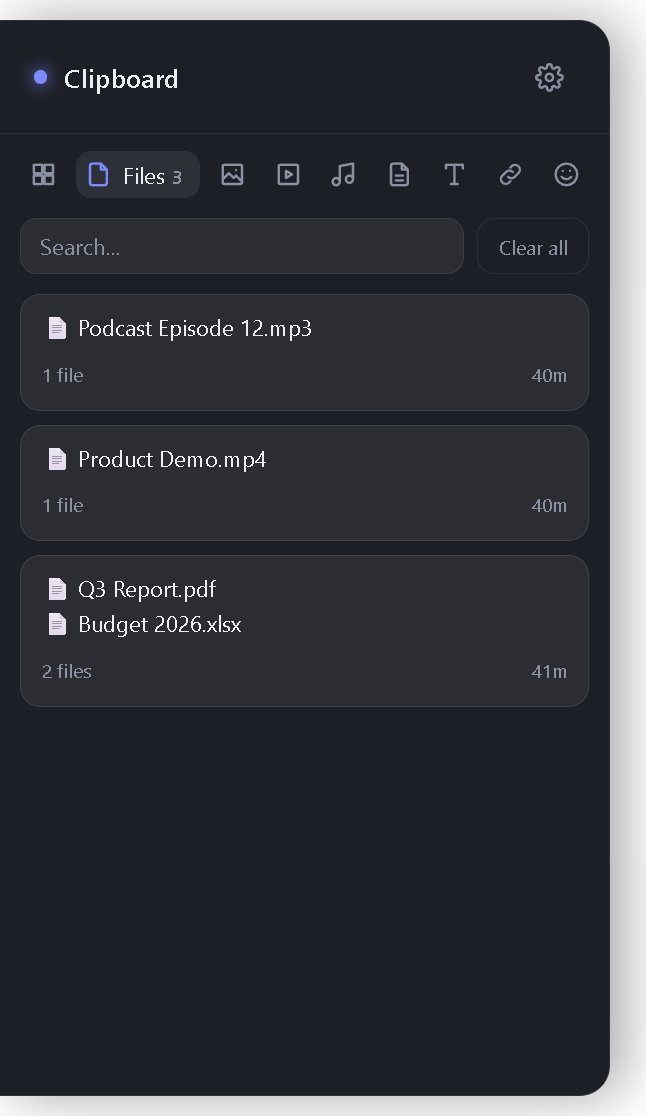
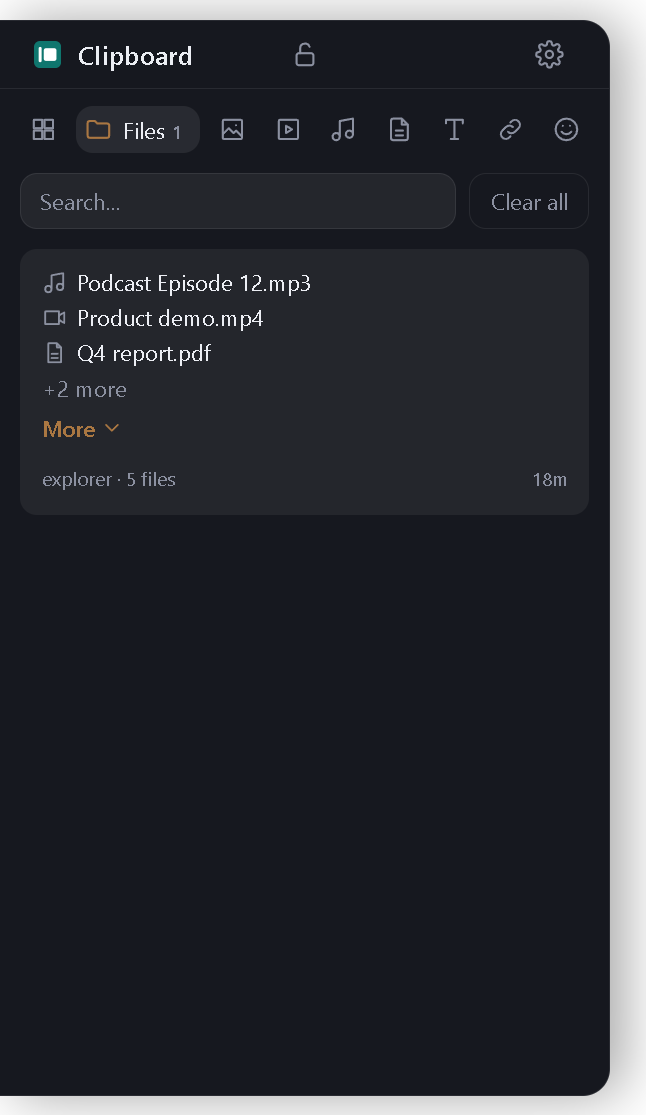
Item 32: README screenshots retaken from the current app, plus Forest in Arabic
Same six files and size (646x1116) from fresh test data, with a seventh (forest.png);
the table is 4 + 3 at width 200.

diff --git a/README.md b/README.md
@@ -107,13 +107,13 @@ Can be turned off from the tray icon, and capturing can be paused on demand.
 
 ## Screenshots
 
-| History | Settings | Light mode |
-|:---:|:---:|:---:|
-| <img src="assets/screenshots/history.png" width="260" alt="History tab"> | <img src="assets/screenshots/settings.png" width="260" alt="Settings"> | <img src="assets/screenshots/light.png" width="260" alt="Light mode"> |
+| History | Settings | Light mode | Forest, in Arabic |
+|:---:|:---:|:---:|:---:|
+| <img src="assets/screenshots/history.png" width="200" alt="History tab"> | <img src="assets/screenshots/settings.png" width="200" alt="Settings"> | <img src="assets/screenshots/light.png" width="200" alt="Light mode"> | <img src="assets/screenshots/forest.png" width="200" alt="Forest theme with the Arabic interface"> |
 
 | Images | Files | Emoji |
 |:---:|:---:|:---:|
-| <img src="assets/screenshots/images.png" width="260" alt="Images tab"> | <img src="assets/screenshots/files.png" width="260" alt="Files tab"> | <img src="assets/screenshots/emoji.png" width="260" alt="Emoji picker"> |
+| <img src="assets/screenshots/images.png" width="200" alt="Images tab"> | <img src="assets/screenshots/files.png" width="200" alt="Files tab"> | <img src="assets/screenshots/emoji.png" width="200" alt="Emoji picker"> |
 
 ## Install
 
